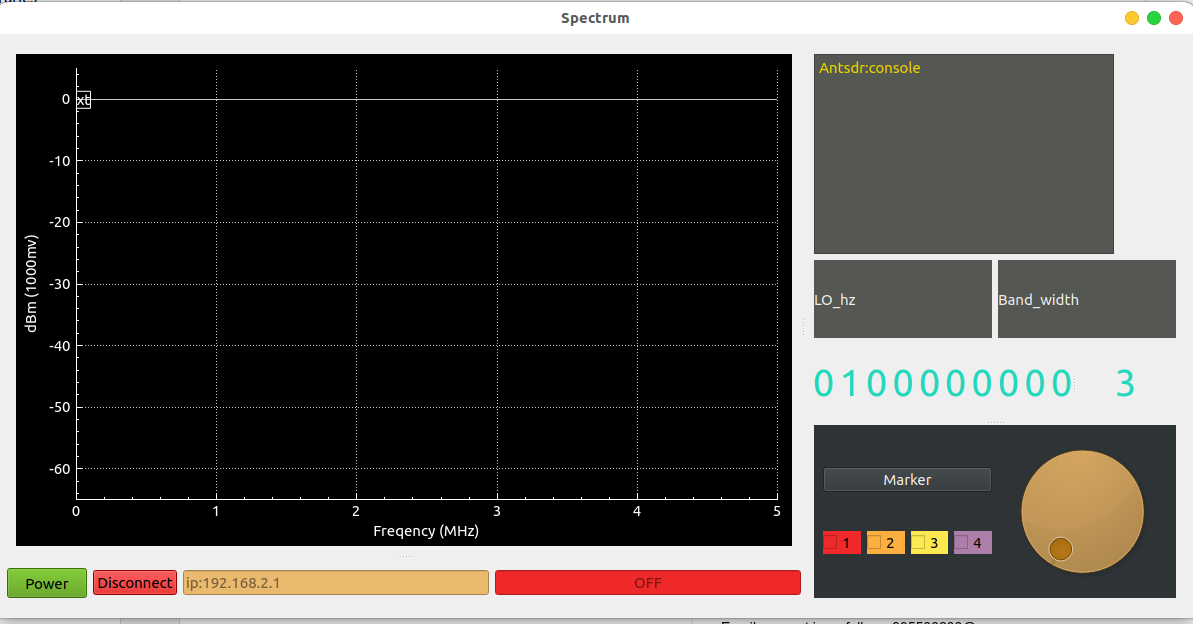
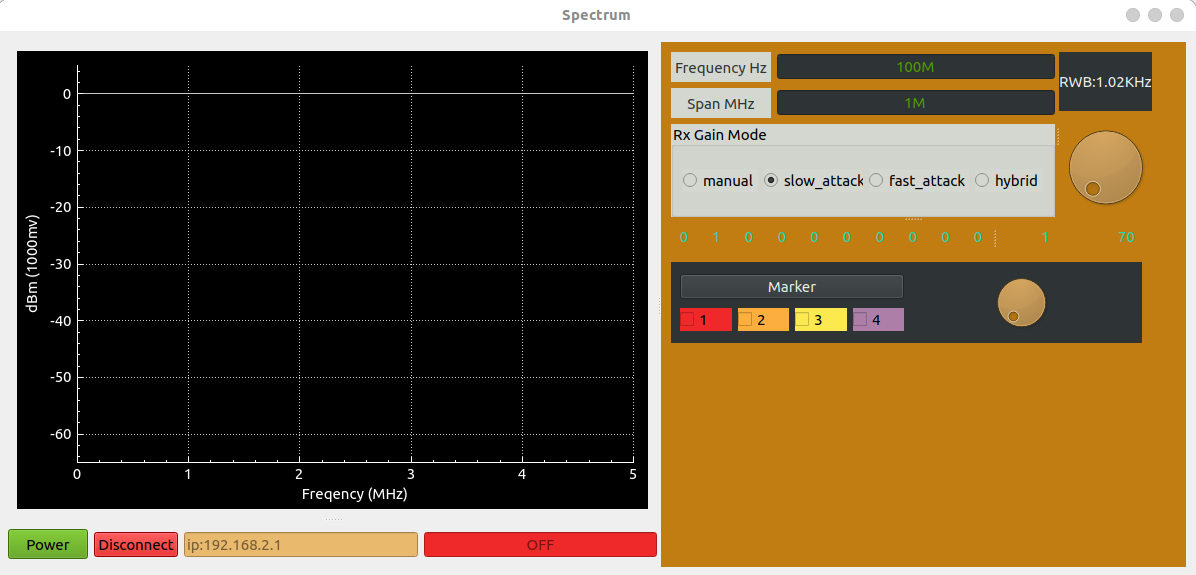
update README.md

diff --git a/README.md b/README.md
@@ -1,3 +1,7 @@
+---
+typora-root-url: ./
+---
+
 # Spectrum
 "spectrum base project"
 
@@ -6,24 +10,29 @@ This project is mainly to realize a simple spectrum analyzer which is still in t
 base on libiio fftw lib. 
 
 
-## update
+## Update
 The project is developed from time to time.
 
-## connect
+## Funciton
+
+**~~Function~~ is down ,Function is on.**
+
+- **~~Sweep~~** - You can observe a certain spectrum of interest by setting the center frequency and sweep frequency width.
+- ~~**Mark**~~ - You can mark different punctuation,the max marks is four but the max dbm.
+- **Demodulation** - You can demodulate in different ways.
+- **Other Function**
+
+## Connect
 If you have better development ideas and solutions, you can contact me by E-mail.
 Email account is as follows:995586238@qq.com
 
-## show
+## Show
 UI show
 
-![image-20220816193105795](/png/image-0.png)
+![image-20220825152025335](/png/image-0.png)
 
+![image-20220825152108345](/png/image-1.png)
 
+![image-20220825152242039](/png/image-2.png)
 
-clicked power and set lo frequency is 1GHz
-
-![image-20220816193320440](/png/image-1.png)
-
-And you can marker different cursor. Now the max marker number is 4 . And different color should be set in dial.
-
-![image-20220816193510648](/png/image-2.png)
+![image-20220825152424520](/png/image-3.png)
